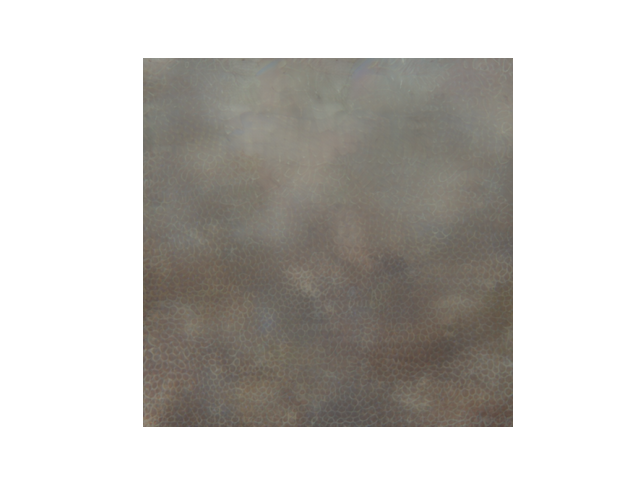
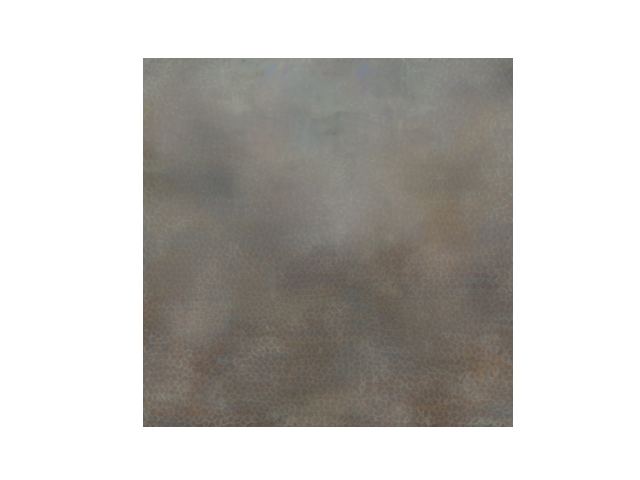
Good Results Update

diff --git a/README.md b/README.md
@@ -143,8 +143,10 @@ with some reductions
 ---
 New Image Generated after 120 Epochs of Training and 20 Denoising Steps.
 
-Text: "A Beautiful Ocean"
-
+Text: "A Blue shiny Sky"
 
 ![Generated Image](/Images/newImage.png)
+
+If you Zoom the Image and see the result, you can see some bits of cloud in it.. It is really a breakthrough as
+I am able to generate it with just 137 Epochs of training 1000 text-image pair on my new Architecture.
 
